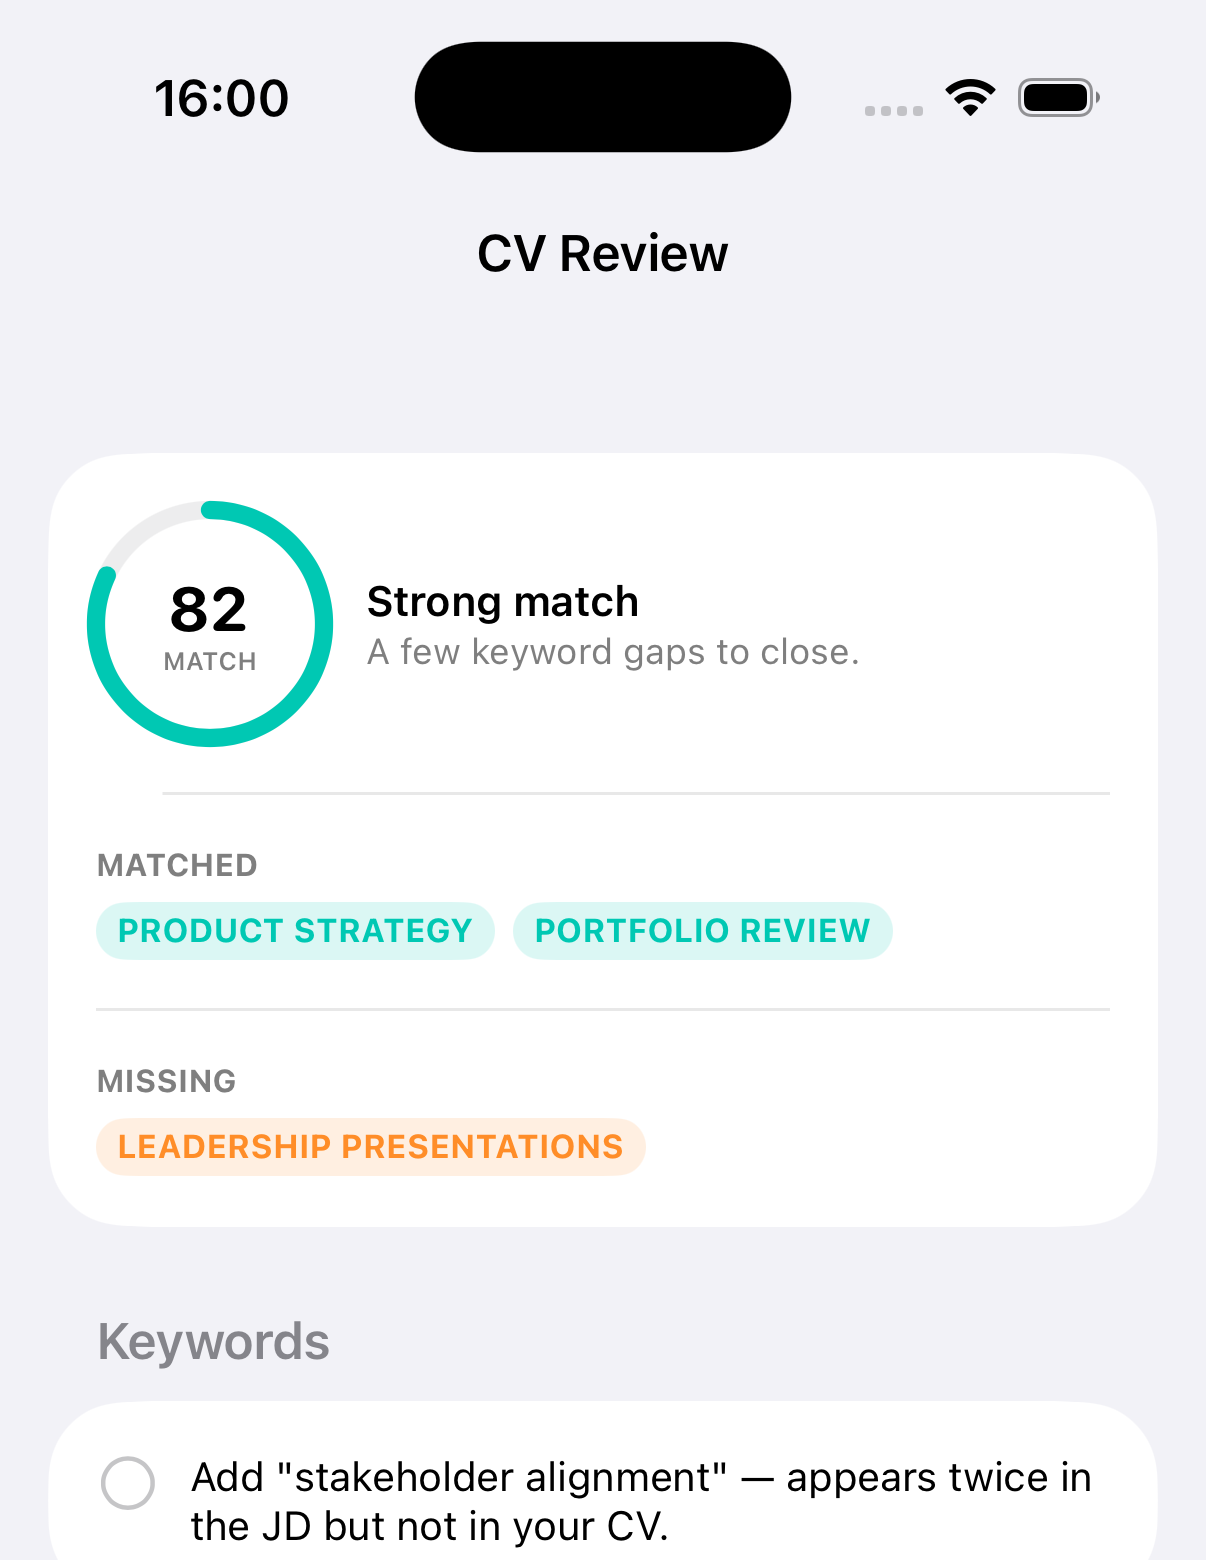
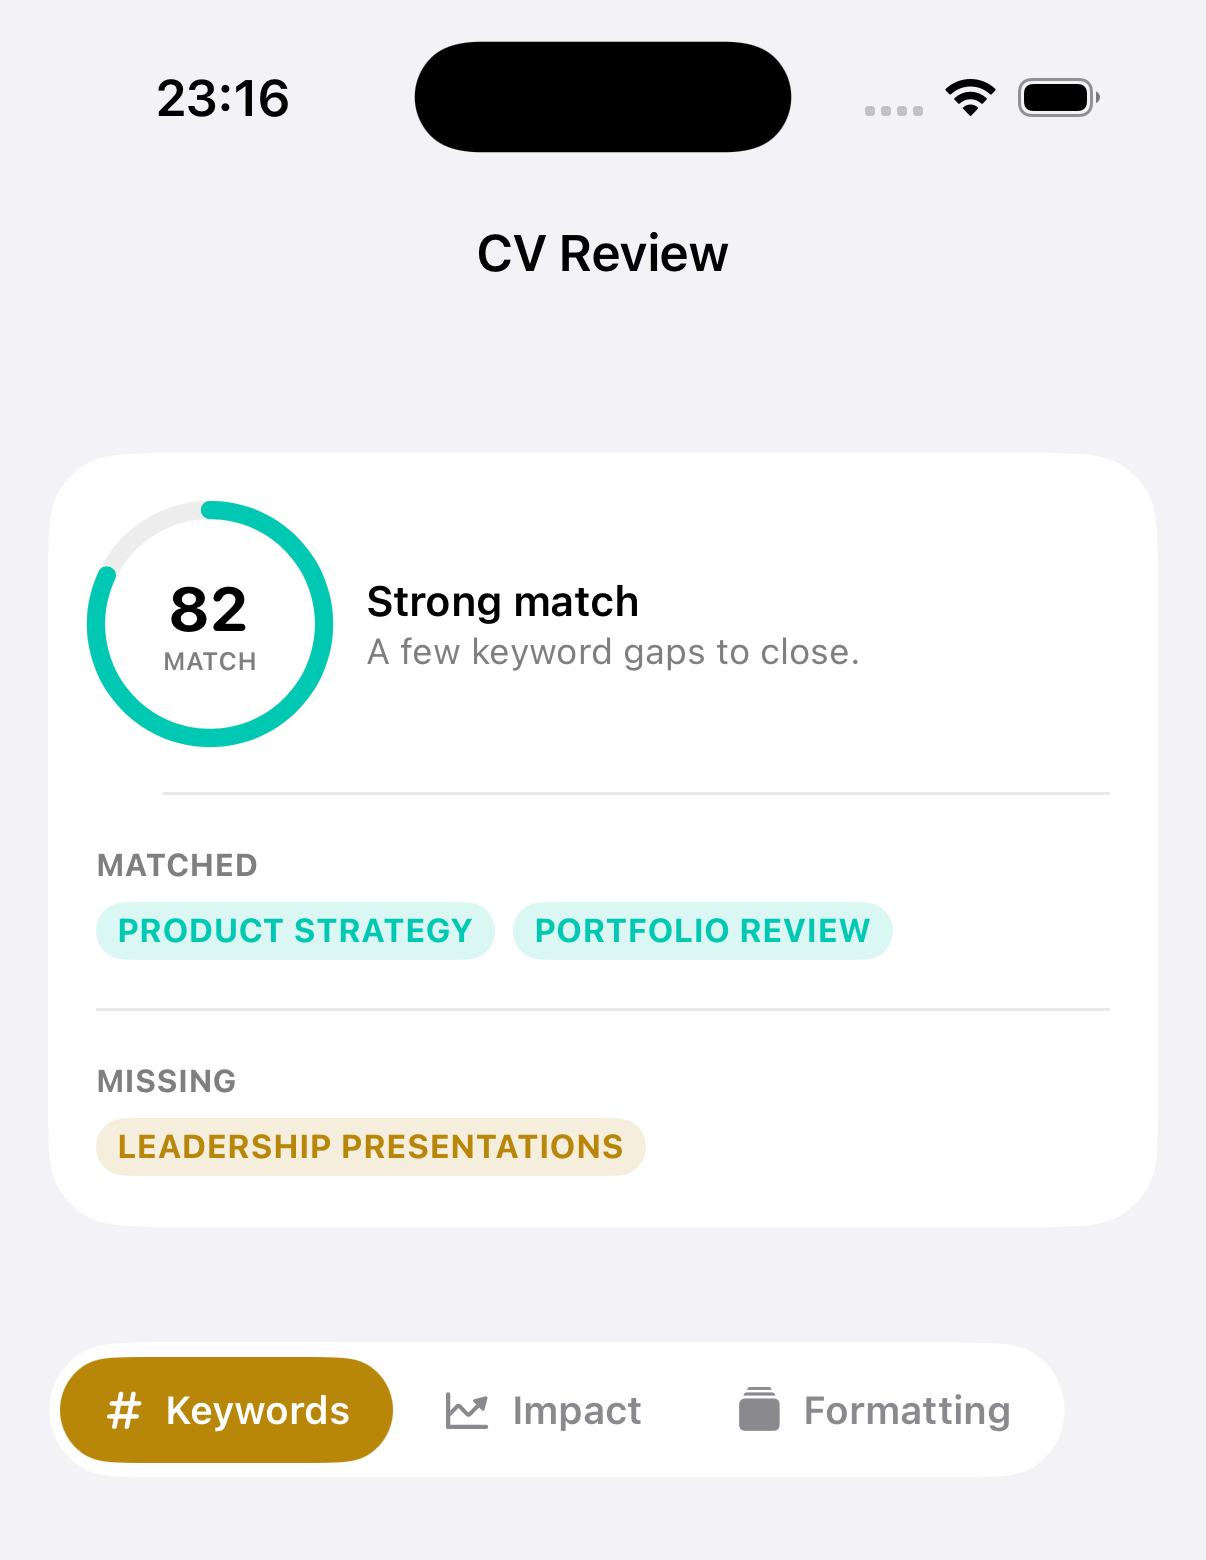
Add LinkedIn Tips/Stories to the free features list, refresh stale screenshots
The three showcase screenshots (home, CV Review, LinkedIn Review) predated
today's LinkedIn Tips/Stories build and the gold "paid" recolour. Regenerated
all three from the real current app so colours and content match — the old
linkedin-review.png in particular showed an orange ring for a 76 score, which
the app's real >=60 threshold logic renders mint. Also fixed that screenshot's
alt text, which named categories (Headline/About) that don't exist in the app.

Claude-Session: https://claude.ai/code/session_018XeRxznhshrMkBP1sTkYmv

diff --git a/index.html b/index.html
@@ -60,7 +60,7 @@
 
     <div class="hero-shot">
       <div class="device-frame">
-        <img src="screenshots/home.png" alt="HirePotential's Home screen, showing The Basics, CV Tips, Interview Advice, and Analyse a Job Advert, plus a researched role scored 78.">
+        <img src="screenshots/home.png" alt="HirePotential's Home screen, showing The Basics, CV Tips, LinkedIn Tips, Stories, Interview Advice, and a researched role with a CV Review score of 78.">
       </div>
     </div>
   </div>
@@ -104,7 +104,7 @@
       <div class="showcase-row">
         <div class="showcase-shot">
           <div class="device-frame">
-            <img src="screenshots/linkedin-review.png" alt="LinkedIn Review screen showing a score of 76 with suggestions grouped under Headline, About, and Consistency.">
+            <img src="screenshots/linkedin-review.png" alt="LinkedIn Review screen showing a score of 76 with suggestions grouped under Structural, Content, and Consistency.">
           </div>
         </div>
         <div class="showcase-copy">
@@ -139,6 +139,14 @@
       <div class="extra">
         <h3>CV Tips</h3>
         <p>What actually makes a CV worth reading — the groundwork behind every suggestion CV Review makes.</p>
+      </div>
+      <div class="extra">
+        <h3>LinkedIn Tips</h3>
+        <p>What actually makes a profile worth a second look — the groundwork behind every suggestion LinkedIn Review makes.</p>
+      </div>
+      <div class="extra">
+        <h3>Stories</h3>
+        <p>A small bank of real answers for "tell me a time…" questions, ready before you ever open Rehearse Aloud.</p>
       </div>
       <div class="extra">
         <h3>Interview Advice</h3>

diff --git a/styles.css b/styles.css
@@ -281,7 +281,7 @@
     padding-top: 40px;
     border-top: 1px solid var(--border);
     display: grid;
-    grid-template-columns: repeat(3, 1fr);
+    grid-template-columns: repeat(auto-fit, minmax(200px, 1fr));
     gap: 24px;
   }
   .extras-lead {
